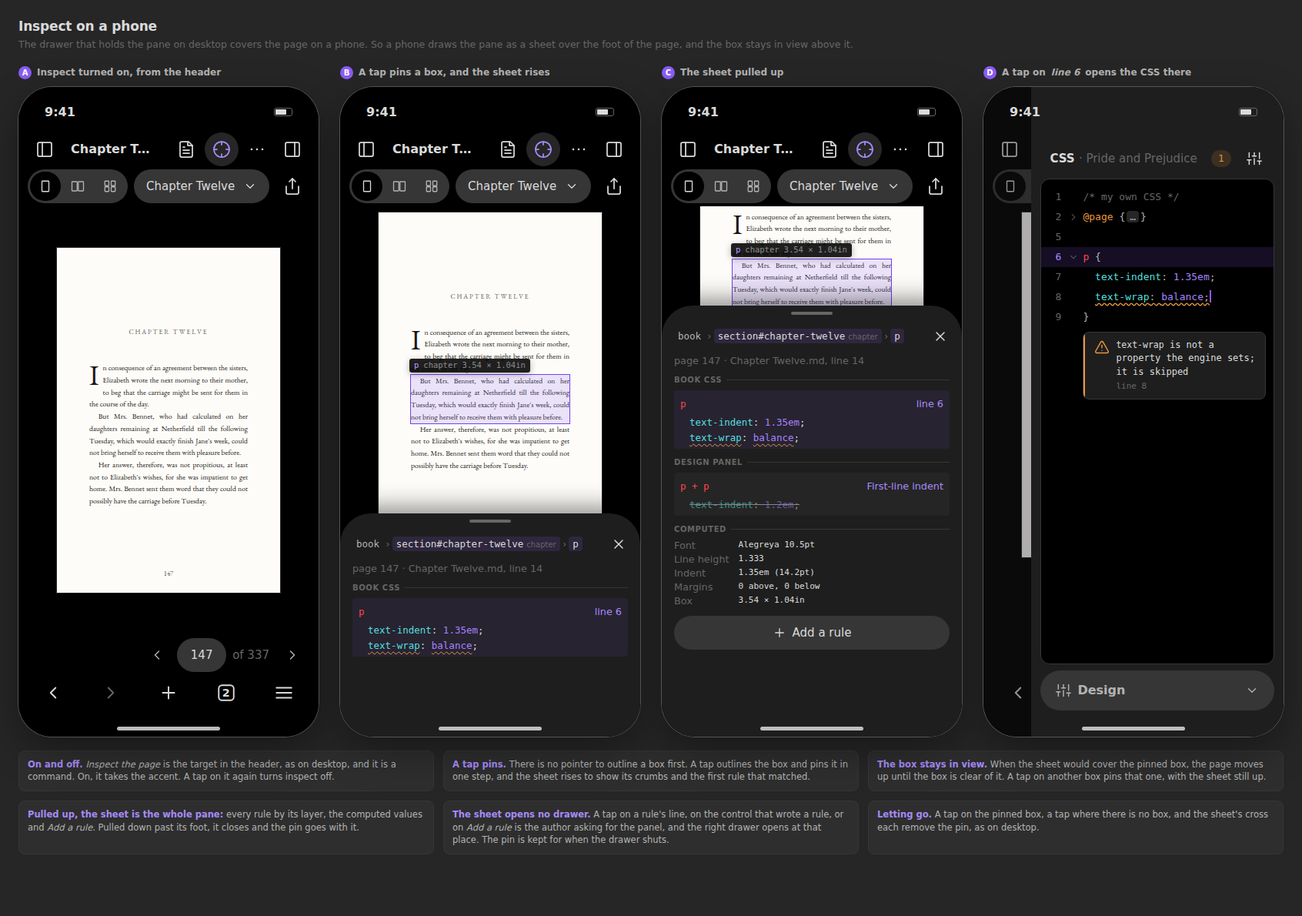
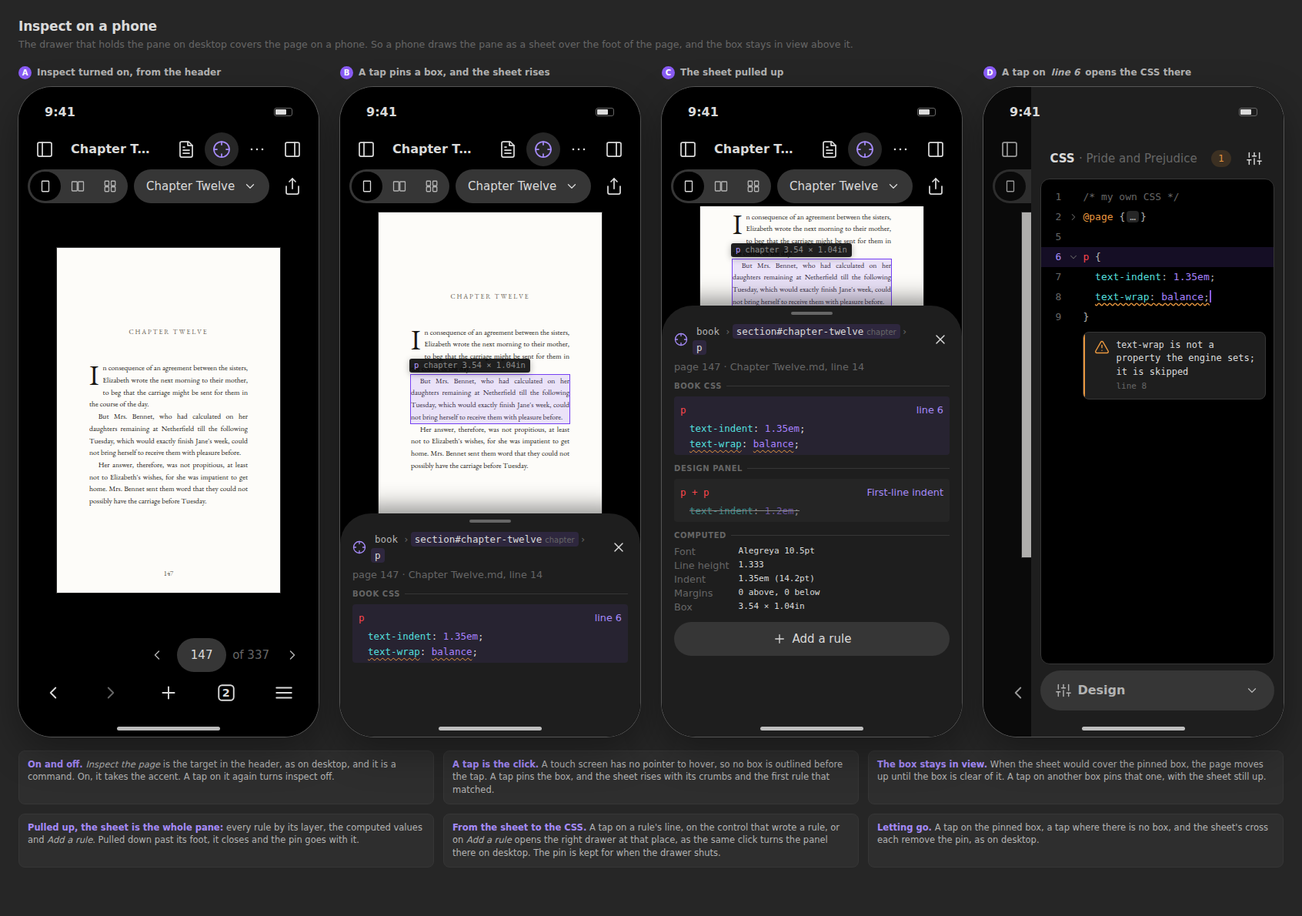
A pin shows the panel on a tablet

diff --git a/index.html b/index.html
@@ -1509,7 +1509,7 @@
 <div class="orca-foot" style="position: relative"><div class="step"><svg class="icon" viewBox="0 0 24 24"><path d="m15 18-6-6 6-6"/></svg></div><div class="field" style="width: 64px; justify-content: center; padding: 0">147</div><span style="color: var(--text-faint); margin: 0 4px">of 337</span><div class="step"><svg class="icon" viewBox="0 0 24 24"><path d="m9 18 6-6-6-6"/></svg></div></div>
 </div>
 <div class="mobile-navbar"><div class="mobile-navbar-action"><svg class="icon" viewBox="0 0 24 24"><path d="m15 18-6-6 6-6"/></svg></div><div class="mobile-navbar-action is-off"><svg class="icon" viewBox="0 0 24 24"><path d="m9 18 6-6-6-6"/></svg></div><div class="mobile-navbar-action"><svg class="icon" viewBox="0 0 24 24"><path d="M5 12h14"/><path d="M12 5v14"/></svg></div><div class="mobile-navbar-action"><svg class="icon" viewBox="0 0 24 24"><rect x="3" y="3" width="18" height="18" rx="4"/></svg><span class="mobile-navbar-tabs-number">2</span></div><div class="mobile-navbar-action"><svg class="icon" viewBox="0 0 24 24"><path d="M3 6h18"/><path d="M3 12h18"/><path d="M3 18h18"/></svg></div></div>
-<div class="insp-sheet" style="height: 290px"><div class="menu-grabber" style="margin-bottom: 4px; flex: none"></div><div style="display: flex; align-items: center; gap: 6px"><div class="crumbs" style="flex: 1; min-width: 0"><span class="crumb">book</span>›<span class="crumb is-active">section#chapter-twelve<i>chapter</i></span>›<span class="crumb is-active">p</span></div><div class="drawer-header-icon" style="margin: -6px -10px -6px 0"><svg class="icon" viewBox="0 0 24 24" aria-label="Unpin"><path d="M18 6 6 18"/><path d="m6 6 12 12"/></svg></div></div><div class="note">page 147 · Chapter Twelve.md, line 14</div><div class="origin">Book CSS</div><div class="rule" style="background: hsla(258, 88%, 66%, 0.09)"><div class="rule-h"><span class="sel">p</span><span class="src">line 6</span></div><div class="decl"><span class="p">text-indent</span>: <span class="v">1.35em</span>;</div><div class="decl is-skipped"><span class="p">text-wrap</span>: <span class="v">balance</span>;</div></div></div>
+<div class="insp-sheet" style="height: 290px"><div class="menu-grabber" style="margin-bottom: 4px; flex: none"></div><div style="display: flex; align-items: center; gap: 6px"><svg class="icon-s icon" viewBox="0 0 24 24" style="color: var(--text-accent); flex: none"><circle cx="12" cy="12" r="10"/><path d="M22 12h-4M6 12H2M12 6V2M12 22v-4"/></svg><div class="crumbs" style="flex: 1; min-width: 0"><span class="crumb">book</span>›<span class="crumb is-active">section#chapter-twelve<i>chapter</i></span>›<span class="crumb is-active">p</span></div><div class="drawer-header-icon" style="margin: -6px -10px -6px 0"><svg class="icon" viewBox="0 0 24 24" aria-label="Unpin"><path d="M18 6 6 18"/><path d="m6 6 12 12"/></svg></div></div><div class="note">page 147 · Chapter Twelve.md, line 14</div><div class="origin">Book CSS</div><div class="rule" style="background: hsla(258, 88%, 66%, 0.09)"><div class="rule-h"><span class="sel">p</span><span class="src">line 6</span></div><div class="decl"><span class="p">text-indent</span>: <span class="v">1.35em</span>;</div><div class="decl is-skipped"><span class="p">text-wrap</span>: <span class="v">balance</span>;</div></div></div>
 <div class="home-bar"></div>
 </div>
 </div>
@@ -1524,7 +1524,7 @@
 <div class="orca-foot" style="position: relative"><div class="step"><svg class="icon" viewBox="0 0 24 24"><path d="m15 18-6-6 6-6"/></svg></div><div class="field" style="width: 64px; justify-content: center; padding: 0">147</div><span style="color: var(--text-faint); margin: 0 4px">of 337</span><div class="step"><svg class="icon" viewBox="0 0 24 24"><path d="m9 18 6-6-6-6"/></svg></div></div>
 </div>
 <div class="mobile-navbar"><div class="mobile-navbar-action"><svg class="icon" viewBox="0 0 24 24"><path d="m15 18-6-6 6-6"/></svg></div><div class="mobile-navbar-action is-off"><svg class="icon" viewBox="0 0 24 24"><path d="m9 18 6-6-6-6"/></svg></div><div class="mobile-navbar-action"><svg class="icon" viewBox="0 0 24 24"><path d="M5 12h14"/><path d="M12 5v14"/></svg></div><div class="mobile-navbar-action"><svg class="icon" viewBox="0 0 24 24"><rect x="3" y="3" width="18" height="18" rx="4"/></svg><span class="mobile-navbar-tabs-number">2</span></div><div class="mobile-navbar-action"><svg class="icon" viewBox="0 0 24 24"><path d="M3 6h18"/><path d="M3 12h18"/><path d="M3 18h18"/></svg></div></div>
-<div class="insp-sheet" style="height: 560px"><div class="menu-grabber" style="margin-bottom: 4px; flex: none"></div><div style="display: flex; align-items: center; gap: 6px"><div class="crumbs" style="flex: 1; min-width: 0"><span class="crumb">book</span>›<span class="crumb is-active">section#chapter-twelve<i>chapter</i></span>›<span class="crumb is-active">p</span></div><div class="drawer-header-icon" style="margin: -6px -10px -6px 0"><svg class="icon" viewBox="0 0 24 24" aria-label="Unpin"><path d="M18 6 6 18"/><path d="m6 6 12 12"/></svg></div></div><div class="note">page 147 · Chapter Twelve.md, line 14</div><div class="origin">Book CSS</div><div class="rule" style="background: hsla(258, 88%, 66%, 0.09)"><div class="rule-h"><span class="sel">p</span><span class="src">line 6</span></div><div class="decl"><span class="p">text-indent</span>: <span class="v">1.35em</span>;</div><div class="decl is-skipped"><span class="p">text-wrap</span>: <span class="v">balance</span>;</div></div><div class="origin">Design panel</div><div class="rule"><div class="rule-h"><span class="sel">p + p</span><span class="src">First-line indent</span></div><div class="decl is-lost"><span class="p">text-indent</span>: <span class="v">1.2em</span>;</div></div><div class="origin">Computed</div><div class="computed"><span>Font</span><span>Alegreya 10.5pt</span><span>Line height</span><span>1.333</span><span>Indent</span><span>1.35em (14.2pt)</span><span>Margins</span><span>0 above, 0 below</span><span>Box</span><span>3.54 × 1.04in</span></div><div class="btn" style="margin-top: 4px"><svg class="icon-s icon" viewBox="0 0 24 24"><path d="M5 12h14"/><path d="M12 5v14"/></svg>Add a rule</div></div>
+<div class="insp-sheet" style="height: 560px"><div class="menu-grabber" style="margin-bottom: 4px; flex: none"></div><div style="display: flex; align-items: center; gap: 6px"><svg class="icon-s icon" viewBox="0 0 24 24" style="color: var(--text-accent); flex: none"><circle cx="12" cy="12" r="10"/><path d="M22 12h-4M6 12H2M12 6V2M12 22v-4"/></svg><div class="crumbs" style="flex: 1; min-width: 0"><span class="crumb">book</span>›<span class="crumb is-active">section#chapter-twelve<i>chapter</i></span>›<span class="crumb is-active">p</span></div><div class="drawer-header-icon" style="margin: -6px -10px -6px 0"><svg class="icon" viewBox="0 0 24 24" aria-label="Unpin"><path d="M18 6 6 18"/><path d="m6 6 12 12"/></svg></div></div><div class="note">page 147 · Chapter Twelve.md, line 14</div><div class="origin">Book CSS</div><div class="rule" style="background: hsla(258, 88%, 66%, 0.09)"><div class="rule-h"><span class="sel">p</span><span class="src">line 6</span></div><div class="decl"><span class="p">text-indent</span>: <span class="v">1.35em</span>;</div><div class="decl is-skipped"><span class="p">text-wrap</span>: <span class="v">balance</span>;</div></div><div class="origin">Design panel</div><div class="rule"><div class="rule-h"><span class="sel">p + p</span><span class="src">First-line indent</span></div><div class="decl is-lost"><span class="p">text-indent</span>: <span class="v">1.2em</span>;</div></div><div class="origin">Computed</div><div class="computed"><span>Font</span><span>Alegreya 10.5pt</span><span>Line height</span><span>1.333</span><span>Indent</span><span>1.35em (14.2pt)</span><span>Margins</span><span>0 above, 0 below</span><span>Box</span><span>3.54 × 1.04in</span></div><div class="btn" style="margin-top: 4px"><svg class="icon-s icon" viewBox="0 0 24 24"><path d="M5 12h14"/><path d="M12 5v14"/></svg>Add a rule</div></div>
 <div class="home-bar"></div>
 </div>
 </div>
@@ -1547,10 +1547,10 @@
   </div>
   <div style="display: grid; grid-template-columns: repeat(3, minmax(0, 1fr)); gap: 12px">
     <div class="callout"><div><span class="k">On and off.</span> <em>Inspect the page</em> is the target in the header, as on desktop, and it is a command. On, it takes the accent. A tap on it again turns inspect off.</div></div>
-    <div class="callout"><div><span class="k">A tap pins.</span> There is no pointer to outline a box first. A tap outlines the box and pins it in one step, and the sheet rises to show its crumbs and the first rule that matched.</div></div>
+    <div class="callout"><div><span class="k">A tap is the click.</span> A touch screen has no pointer to hover, so no box is outlined before the tap. A tap pins the box, and the sheet rises with its crumbs and the first rule that matched.</div></div>
     <div class="callout"><div><span class="k">The box stays in view.</span> When the sheet would cover the pinned box, the page moves up until the box is clear of it. A tap on another box pins that one, with the sheet still up.</div></div>
     <div class="callout"><div><span class="k">Pulled up, the sheet is the whole pane:</span> every rule by its layer, the computed values and <em>Add a rule</em>. Pulled down past its foot, it closes and the pin goes with it.</div></div>
-    <div class="callout"><div><span class="k">The sheet opens no drawer.</span> A tap on a rule's line, on the control that wrote a rule, or on <em>Add a rule</em> is the author asking for the panel, and the right drawer opens at that place. The pin is kept for when the drawer shuts.</div></div>
+    <div class="callout"><div><span class="k">From the sheet to the CSS.</span> A tap on a rule's line, on the control that wrote a rule, or on <em>Add a rule</em> opens the right drawer at that place, as the same click turns the panel there on desktop. The pin is kept for when the drawer shuts.</div></div>
     <div class="callout"><div><span class="k">Letting go.</span> A tap on the pinned box, a tap where there is no box, and the sheet's cross each remove the pin, as on desktop.</div></div>
   </div>
 </div>
@@ -1574,16 +1574,16 @@
 <div class="orca-foot" style="position: relative"><div class="step"><svg class="icon" viewBox="0 0 24 24"><path d="m15 18-6-6 6-6"/></svg></div><div class="field" style="width: 64px; justify-content: center; padding: 0">147</div><span style="color: var(--text-faint); margin: 0 4px">of 337</span><div class="step"><svg class="icon" viewBox="0 0 24 24"><path d="m9 18 6-6-6-6"/></svg></div></div>
 </div>
 </div>
-<div class="drawer mod-right is-pinned" style="padding-bottom: 0"><div class="drawer-tab-select" style="margin-bottom: 4px"><svg class="icon" viewBox="0 0 24 24"><path d="M4 21v-7"/><path d="M4 10V3"/><path d="M12 21v-9"/><path d="M12 8V3"/><path d="M20 21v-5"/><path d="M20 12V3"/><path d="M1 14h6"/><path d="M9 8h6"/><path d="M17 16h6"/></svg><span>Design</span><span class="grow"></span><svg class="icon-s icon" viewBox="0 0 24 24"><path d="m6 9 6 6 6-6"/></svg></div><div class="drawer-header" style="padding-left: 24px"><div class="drawer-header-name"><span style="font-weight: 600">CSS</span> <span style="color: var(--text-faint); font-weight: 400">· Pride and Prejudice</span></div><span class="chip mod-warn">1</span><div class="drawer-header-icon"><svg class="icon" viewBox="0 0 24 24" aria-label="Controls"><path d="M4 21v-7"/><path d="M4 10V3"/><path d="M12 21v-9"/><path d="M12 8V3"/><path d="M20 21v-5"/><path d="M20 12V3"/><path d="M1 14h6"/><path d="M9 8h6"/><path d="M17 16h6"/></svg></div><div class="drawer-header-icon is-on"><svg class="icon" viewBox="0 0 24 24"><path d="M12 17v5"/><path d="M9 10.76a2 2 0 0 1-1.11 1.79l-1.78.9A2 2 0 0 0 5 15.24V16a1 1 0 0 0 1 1h12a1 1 0 0 0 1-1v-.76a2 2 0 0 0-1.11-1.79l-1.78-.9A2 2 0 0 1 15 10.76V7a1 1 0 0 1 1-1 2 2 0 0 0 0-4H8a2 2 0 0 0 0 4 1 1 0 0 1 1 1z"/></svg></div></div><div class="drawer-body" style="display: flex; flex-direction: column; gap: 10px; padding: 4px 16px 24px"><div style="border: 1px solid var(--background-modifier-border); border-radius: 12px; background: var(--background-primary); padding: 10px 12px 12px; display: flex; flex-direction: column; gap: 8px"><div style="display: flex; align-items: center; gap: 6px"><div class="crumbs" style="flex: 1; min-width: 0; font-size: 12px"><span class="crumb">book</span>›<span class="crumb is-active">section#chapter-twelve<i>chapter</i></span>›<span class="crumb is-active">p</span></div><div class="drawer-header-icon" style="margin: -8px -8px -8px 0"><svg class="icon" viewBox="0 0 24 24" aria-label="Unpin"><path d="M18 6 6 18"/><path d="m6 6 12 12"/></svg></div></div><div class="note">page 147 · Chapter Twelve.md, line 14</div><div class="origin">Book CSS</div><div class="rule" style="font-size: 12px; background: hsla(258, 88%, 66%, 0.09)"><div class="rule-h"><span class="sel">p</span><span class="src" style="font-size: 12.8px">line 6</span></div><div class="decl"><span class="p">text-indent</span>: <span class="v">1.35em</span>;</div><div class="decl is-skipped"><span class="p">text-wrap</span>: <span class="v">balance</span>;</div></div><div class="origin">Design panel</div><div class="rule" style="font-size: 12px"><div class="rule-h"><span class="sel">p + p</span><span class="src" style="font-size: 12.8px">First-line indent</span></div><div class="decl is-lost"><span class="p">text-indent</span>: <span class="v">1.2em</span>;</div></div><div class="origin">Computed</div><div class="computed" style="font-size: 12.8px"><span>Font</span><span>Alegreya 10.5pt</span><span>Indent</span><span>1.35em (14.2pt)</span><span>Box</span><span>3.54 × 1.04in</span></div><div class="btn" style="margin-top: 4px"><svg class="icon-s icon" viewBox="0 0 24 24"><path d="M5 12h14"/><path d="M12 5v14"/></svg>Add a rule</div></div><div style="flex: 1; min-height: 0; border: 1px solid var(--background-modifier-border); border-radius: 12px; background: var(--background-primary); overflow: hidden; display: flex; flex-direction: column"><div style="flex: 1; min-height: 0; padding: 10px 0; font-family: var(--font-monospace); font-size: 13px; line-height: 2"><div style="display: flex"><div style="width: 30px; text-align: right; padding-right: 4px; color: var(--text-faint)">1</div><div style="width: 24px; display: flex; align-items: center; justify-content: center; color: var(--text-faint)"></div><div><span style="color: var(--text-faint)">/* my own CSS */</span></div></div><div style="display: flex"><div style="width: 30px; text-align: right; padding-right: 4px; color: var(--text-faint)">2</div><div style="width: 24px; display: flex; align-items: center; justify-content: center; color: var(--text-faint)"><svg class="icon-xs icon" viewBox="0 0 24 24" style="width: 14px; height: 14px"><path d="m9 18 6-6-6-6"/></svg></div><div><span style="color: var(--color-orange)">@page</span> <span style="color: var(--text-muted)">{</span><span style="margin: 0 2px; padding: 0 4px; border-radius: 4px; background: var(--background-modifier-hover); color: var(--text-muted)">…</span><span style="color: var(--text-muted)">}</span></div></div><div style="display: flex"><div style="width: 30px; text-align: right; padding-right: 4px; color: var(--text-faint)">5</div><div style="width: 24px; display: flex; align-items: center; justify-content: center; color: var(--text-faint)"></div><div></div></div><div style="display: flex"><div style="width: 30px; text-align: right; padding-right: 4px; color: var(--text-faint)">6</div><div style="width: 24px; display: flex; align-items: center; justify-content: center; color: var(--text-faint)"><svg class="icon-xs icon" viewBox="0 0 24 24" style="width: 14px; height: 14px"><path d="m6 9 6 6 6-6"/></svg></div><div><span style="color: var(--color-red)">p</span> <span style="color: var(--text-muted)">{</span></div></div><div style="display: flex"><div style="width: 30px; text-align: right; padding-right: 4px; color: var(--text-faint)">7</div><div style="width: 24px; display: flex; align-items: center; justify-content: center; color: var(--text-faint)"></div><div>&nbsp;&nbsp;<span style="color: var(--color-cyan)">text-indent</span><span style="color: var(--text-muted)">:</span> <span style="color: var(--color-purple)">1.35em</span><span style="color: var(--text-muted)">;</span></div></div><div style="display: flex"><div style="width: 30px; text-align: right; padding-right: 4px; color: var(--text-faint)">8</div><div style="width: 24px; display: flex; align-items: center; justify-content: center; color: var(--text-faint)"></div><div>&nbsp;&nbsp;<span style="text-decoration: underline wavy var(--color-orange); text-underline-offset: 3px"><span style="color: var(--color-cyan)">text-wrap</span><span style="color: var(--text-muted)">:</span> <span style="color: var(--color-purple)">balance</span><span style="color: var(--text-muted)">;</span></span><span style="display: inline-block; width: 2px; height: 16px; background: var(--color-accent); vertical-align: -3px"></span></div></div><div style="display: flex"><div style="width: 30px; text-align: right; padding-right: 4px; color: var(--text-faint)">9</div><div style="width: 24px; display: flex; align-items: center; justify-content: center; color: var(--text-faint)"></div><div><span style="color: var(--text-muted)">}</span></div></div><div class="card" style="margin: 6px 10px 0 54px"><div class="card-row"><svg class="icon" viewBox="0 0 24 24"><path d="m21.7 18-8-14a2 2 0 0 0-3.4 0l-8 14A2 2 0 0 0 4 21h16a2 2 0 0 0 1.7-3"/><path d="M12 9v4"/><path d="M12 17h.01"/></svg><div><div class="card-said"><code>text-wrap</code> is not a property the engine sets; it is skipped</div><div class="card-at">line 8</div></div></div></div></div></div></div></div>
+<div class="drawer mod-right is-pinned" style="padding-bottom: 0"><div class="drawer-tab-select" style="margin-bottom: 4px"><svg class="icon" viewBox="0 0 24 24"><path d="M4 21v-7"/><path d="M4 10V3"/><path d="M12 21v-9"/><path d="M12 8V3"/><path d="M20 21v-5"/><path d="M20 12V3"/><path d="M1 14h6"/><path d="M9 8h6"/><path d="M17 16h6"/></svg><span>Design</span><span class="grow"></span><svg class="icon-s icon" viewBox="0 0 24 24"><path d="m6 9 6 6 6-6"/></svg></div><div class="drawer-header" style="padding-left: 24px"><div class="drawer-header-name"><span style="font-weight: 600">CSS</span> <span style="color: var(--text-faint); font-weight: 400">· Pride and Prejudice</span></div><span class="chip mod-warn">1</span><div class="drawer-header-icon"><svg class="icon" viewBox="0 0 24 24" aria-label="Controls"><path d="M4 21v-7"/><path d="M4 10V3"/><path d="M12 21v-9"/><path d="M12 8V3"/><path d="M20 21v-5"/><path d="M20 12V3"/><path d="M1 14h6"/><path d="M9 8h6"/><path d="M17 16h6"/></svg></div><div class="drawer-header-icon is-on"><svg class="icon" viewBox="0 0 24 24"><path d="M12 17v5"/><path d="M9 10.76a2 2 0 0 1-1.11 1.79l-1.78.9A2 2 0 0 0 5 15.24V16a1 1 0 0 0 1 1h12a1 1 0 0 0 1-1v-.76a2 2 0 0 0-1.11-1.79l-1.78-.9A2 2 0 0 1 15 10.76V7a1 1 0 0 1 1-1 2 2 0 0 0 0-4H8a2 2 0 0 0 0 4 1 1 0 0 1 1 1z"/></svg></div></div><div class="drawer-body" style="display: flex; flex-direction: column; gap: 10px; padding: 4px 16px 24px"><div style="border: 1px solid var(--background-modifier-border); border-radius: 12px; background: var(--background-primary); padding: 10px 12px 12px; display: flex; flex-direction: column; gap: 8px"><div style="display: flex; align-items: center; gap: 6px"><svg class="icon-s icon" viewBox="0 0 24 24" style="color: var(--text-accent); flex: none"><circle cx="12" cy="12" r="10"/><path d="M22 12h-4M6 12H2M12 6V2M12 22v-4"/></svg><div class="crumbs" style="flex: 1; min-width: 0; font-size: 12px"><span class="crumb">book</span>›<span class="crumb is-active">section#chapter-twelve<i>chapter</i></span>›<span class="crumb is-active">p</span></div><div class="drawer-header-icon" style="margin: -8px -8px -8px 0"><svg class="icon" viewBox="0 0 24 24" aria-label="Unpin"><path d="M18 6 6 18"/><path d="m6 6 12 12"/></svg></div></div><div class="note">page 147 · Chapter Twelve.md, line 14</div><div class="origin">Book CSS</div><div class="rule" style="font-size: 12px; background: hsla(258, 88%, 66%, 0.09)"><div class="rule-h"><span class="sel">p</span><span class="src" style="font-size: 12.8px">line 6</span></div><div class="decl"><span class="p">text-indent</span>: <span class="v">1.35em</span>;</div><div class="decl is-skipped"><span class="p">text-wrap</span>: <span class="v">balance</span>;</div></div><div class="origin">Design panel</div><div class="rule" style="font-size: 12px"><div class="rule-h"><span class="sel">p + p</span><span class="src" style="font-size: 12.8px">First-line indent</span></div><div class="decl is-lost"><span class="p">text-indent</span>: <span class="v">1.2em</span>;</div></div><div class="origin">Computed</div><div class="computed" style="font-size: 12.8px"><span>Font</span><span>Alegreya 10.5pt</span><span>Indent</span><span>1.35em (14.2pt)</span><span>Box</span><span>3.54 × 1.04in</span></div><div class="btn" style="margin-top: 4px"><svg class="icon-s icon" viewBox="0 0 24 24"><path d="M5 12h14"/><path d="M12 5v14"/></svg>Add a rule</div></div><div style="flex: 1; min-height: 0; border: 1px solid var(--background-modifier-border); border-radius: 12px; background: var(--background-primary); overflow: hidden; display: flex; flex-direction: column"><div style="flex: 1; min-height: 0; padding: 10px 0; font-family: var(--font-monospace); font-size: 13px; line-height: 2"><div style="display: flex"><div style="width: 30px; text-align: right; padding-right: 4px; color: var(--text-faint)">1</div><div style="width: 24px; display: flex; align-items: center; justify-content: center; color: var(--text-faint)"></div><div><span style="color: var(--text-faint)">/* my own CSS */</span></div></div><div style="display: flex"><div style="width: 30px; text-align: right; padding-right: 4px; color: var(--text-faint)">2</div><div style="width: 24px; display: flex; align-items: center; justify-content: center; color: var(--text-faint)"><svg class="icon-xs icon" viewBox="0 0 24 24" style="width: 14px; height: 14px"><path d="m9 18 6-6-6-6"/></svg></div><div><span style="color: var(--color-orange)">@page</span> <span style="color: var(--text-muted)">{</span><span style="margin: 0 2px; padding: 0 4px; border-radius: 4px; background: var(--background-modifier-hover); color: var(--text-muted)">…</span><span style="color: var(--text-muted)">}</span></div></div><div style="display: flex"><div style="width: 30px; text-align: right; padding-right: 4px; color: var(--text-faint)">5</div><div style="width: 24px; display: flex; align-items: center; justify-content: center; color: var(--text-faint)"></div><div></div></div><div style="display: flex"><div style="width: 30px; text-align: right; padding-right: 4px; color: var(--text-faint)">6</div><div style="width: 24px; display: flex; align-items: center; justify-content: center; color: var(--text-faint)"><svg class="icon-xs icon" viewBox="0 0 24 24" style="width: 14px; height: 14px"><path d="m6 9 6 6 6-6"/></svg></div><div><span style="color: var(--color-red)">p</span> <span style="color: var(--text-muted)">{</span></div></div><div style="display: flex"><div style="width: 30px; text-align: right; padding-right: 4px; color: var(--text-faint)">7</div><div style="width: 24px; display: flex; align-items: center; justify-content: center; color: var(--text-faint)"></div><div>&nbsp;&nbsp;<span style="color: var(--color-cyan)">text-indent</span><span style="color: var(--text-muted)">:</span> <span style="color: var(--color-purple)">1.35em</span><span style="color: var(--text-muted)">;</span></div></div><div style="display: flex"><div style="width: 30px; text-align: right; padding-right: 4px; color: var(--text-faint)">8</div><div style="width: 24px; display: flex; align-items: center; justify-content: center; color: var(--text-faint)"></div><div>&nbsp;&nbsp;<span style="text-decoration: underline wavy var(--color-orange); text-underline-offset: 3px"><span style="color: var(--color-cyan)">text-wrap</span><span style="color: var(--text-muted)">:</span> <span style="color: var(--color-purple)">balance</span><span style="color: var(--text-muted)">;</span></span><span style="display: inline-block; width: 2px; height: 16px; background: var(--color-accent); vertical-align: -3px"></span></div></div><div style="display: flex"><div style="width: 30px; text-align: right; padding-right: 4px; color: var(--text-faint)">9</div><div style="width: 24px; display: flex; align-items: center; justify-content: center; color: var(--text-faint)"></div><div><span style="color: var(--text-muted)">}</span></div></div><div class="card" style="margin: 6px 10px 0 54px"><div class="card-row"><svg class="icon" viewBox="0 0 24 24"><path d="m21.7 18-8-14a2 2 0 0 0-3.4 0l-8 14A2 2 0 0 0 4 21h16a2 2 0 0 0 1.7-3"/><path d="M12 9v4"/><path d="M12 17h.01"/></svg><div><div class="card-said"><code>text-wrap</code> is not a property the engine sets; it is skipped</div><div class="card-at">line 8</div></div></div></div></div></div></div></div>
 </div>
 <div class="home-bar"></div>
 </div>
 </div>
   </div>
   <div style="display: grid; grid-template-columns: repeat(4, minmax(0, 1fr)); gap: 12px">
-    <div class="callout"><div><span class="k">A tap pins.</span> There is no pointer to outline a box before the choice. A tap outlines the box and pins it in one step, and a tap on a link pins the link and follows nothing.</div></div>
-    <div class="callout"><div><span class="k">The pin opens no drawer.</span> With the right drawer shut, the box stays pinned on the page, and the pane is there when the author opens the drawer.</div></div>
-    <div class="callout"><div><span class="k">Three ways to let go.</span> A tap on the pinned box, a tap where there is no box, and the pane's close button each remove the pin. The header action turns inspect off.</div></div>
+    <div class="callout"><div><span class="k">Inspect as on desktop.</span> The target in the header turns it on. A pin opens the pane at the top of the panel's CSS view and turns the panel to that view, and the rules, the crumbs and <em>Add a rule</em> work as they do there.</div></div>
+    <div class="callout"><div><span class="k">A tap is the click.</span> A touch screen has no pointer to hover, so no box is outlined before the tap. That is the one difference.</div></div>
+    <div class="callout"><div><span class="k">A closed drawer opens for a pin.</span> A pin shows the panel, as a click does on desktop. It is the one thing orca opens a drawer for, because the author asked to see the rules.</div></div>
     <div class="callout"><div><span class="k">A phone has a sheet instead.</span> A tablet has room for the pane beside the page. A phone draws the same pane as a sheet over the foot of the page.</div></div>
   </div>
 </div>
